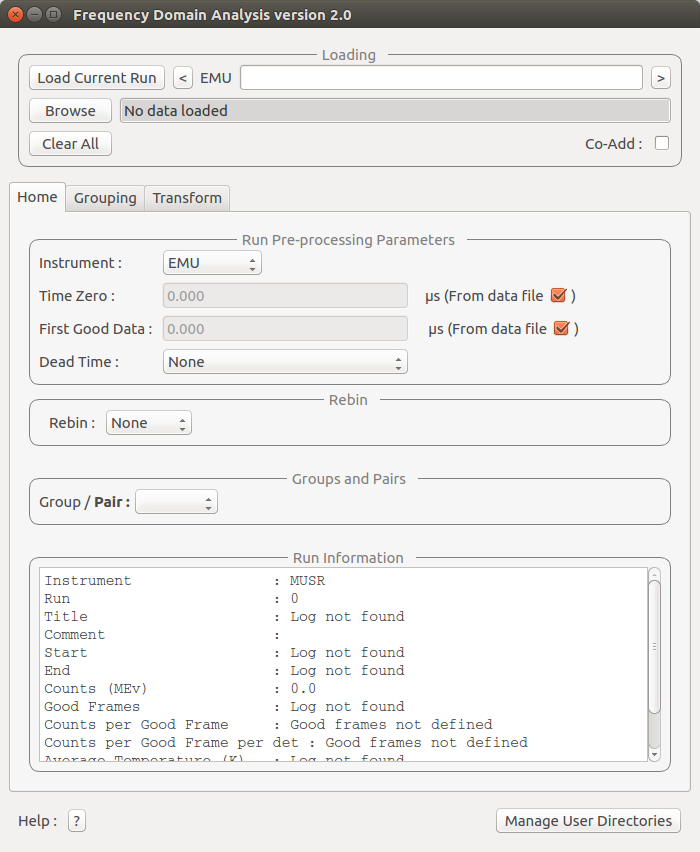
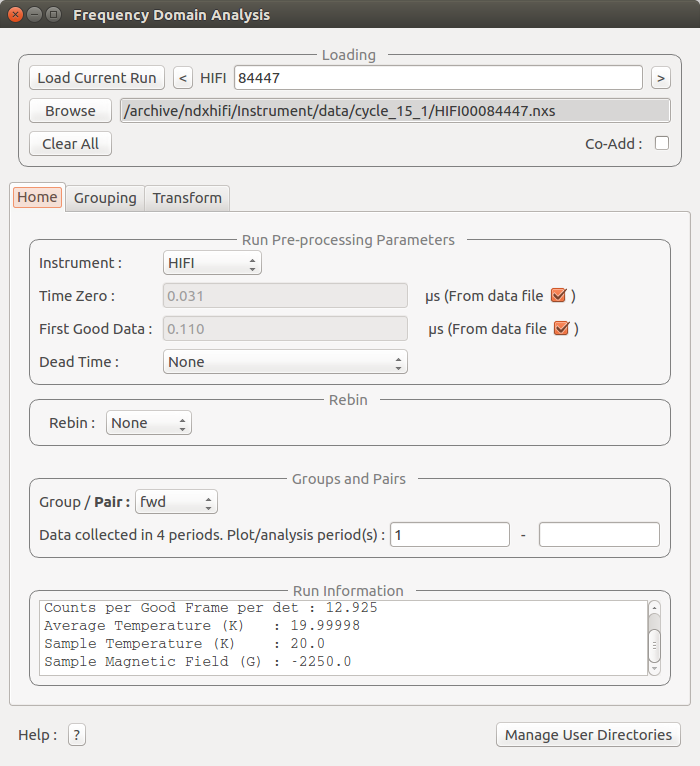
Added image to release notes Re #24918

Changed region(s): [[0.0, 0.0, 1.0, 0.9909], [0.42, 0.5104, 0.57, 0.5705], [0.93, 0.2702, 0.96, 0.3003]]

diff --git a/docs/source/release/v4.0.0/muon.rst b/docs/source/release/v4.0.0/muon.rst
@@ -1,6 +1,9 @@
 ============
 Muon Changes
 ============
+.. image::  ../../images/frequency_domain_analysis_2_home.png
+   :align: right
+   :height: 600px
 
 .. contents:: Table of Contents
    :local:
@@ -11,7 +14,7 @@ Interface
 New
 ###
 - Elemental Analysis added to Muon Interfaces: Includes a selectable Periodic Table.
-- Frequency Domain Analysis 2 added. See the documentation here :ref:`Frequency Domain Analysis <Frequency_Domain_Analysis_2-ref>`
+- New Frequency Domain Analysis GUI added, the original one is now marked as old. See the documentation here :ref:`Frequency Domain Analysis <Frequency_Domain_Analysis_2-ref>`
 
 Improvements
 ############
@@ -38,9 +41,10 @@ New
 - :ref:`ApplyMuonDetectorGroupPairing <algm-ApplyMuonDetectorGroupPairing>` added to allow scripting of the Muon Analysis GUI workflow. Applies a group pairing asymmetry calculation to muon data and stores the result in the ADS.
 - :ref:`LoadAndApplyMuonDetectorGrouping <algm-LoadAndApplyMuonDetectorGrouping>` added to allow scripting of the Muon Analysis GUI workflow. The grouping/pairing information is loaded from an XML format file, which can be produced through the muon analysis GUI via the 'Save Grouping' button. Replicates the `Load Grouping` button of the grouping tab, adds workspaces to the ADS.
 - :ref:`LoadPSIMuonBin <algm-LoadPSIMuonBin>` added the ability to load a .bin file from the PSI facility in switzerland, as a workspace.
-
-Improvements
-############
+- :ref:`MuonPreProcess <algm-MuonPreProcess>` added to simplify new GUI backend. Performs a series of common analysis pre-processing steps on Muon data. Sample logs are modified to record the input parameters.
+- :ref:`MuonGroupingCounts <algm-MuonGroupingCounts>` added to simplify new GUI backend. Applies a grouping (summation of counts) across a set of detectors in Muon data.
+- :ref:`MuonPairingAsymmetry <algm-MuonPairingAsymmetry>` added to simplify new GUI backend. Applies a pairing asymmetry calculation between two detector groups from Muon data.
+- :ref:`MuonGroupingAsymmetry <algm-MuonGroupingAsymmetry>` added to simplify new GUI backend. Applies an estimate of the  group asymmetry to a particular detector grouping in Muon data.
 
 Bugfixes
 ########
